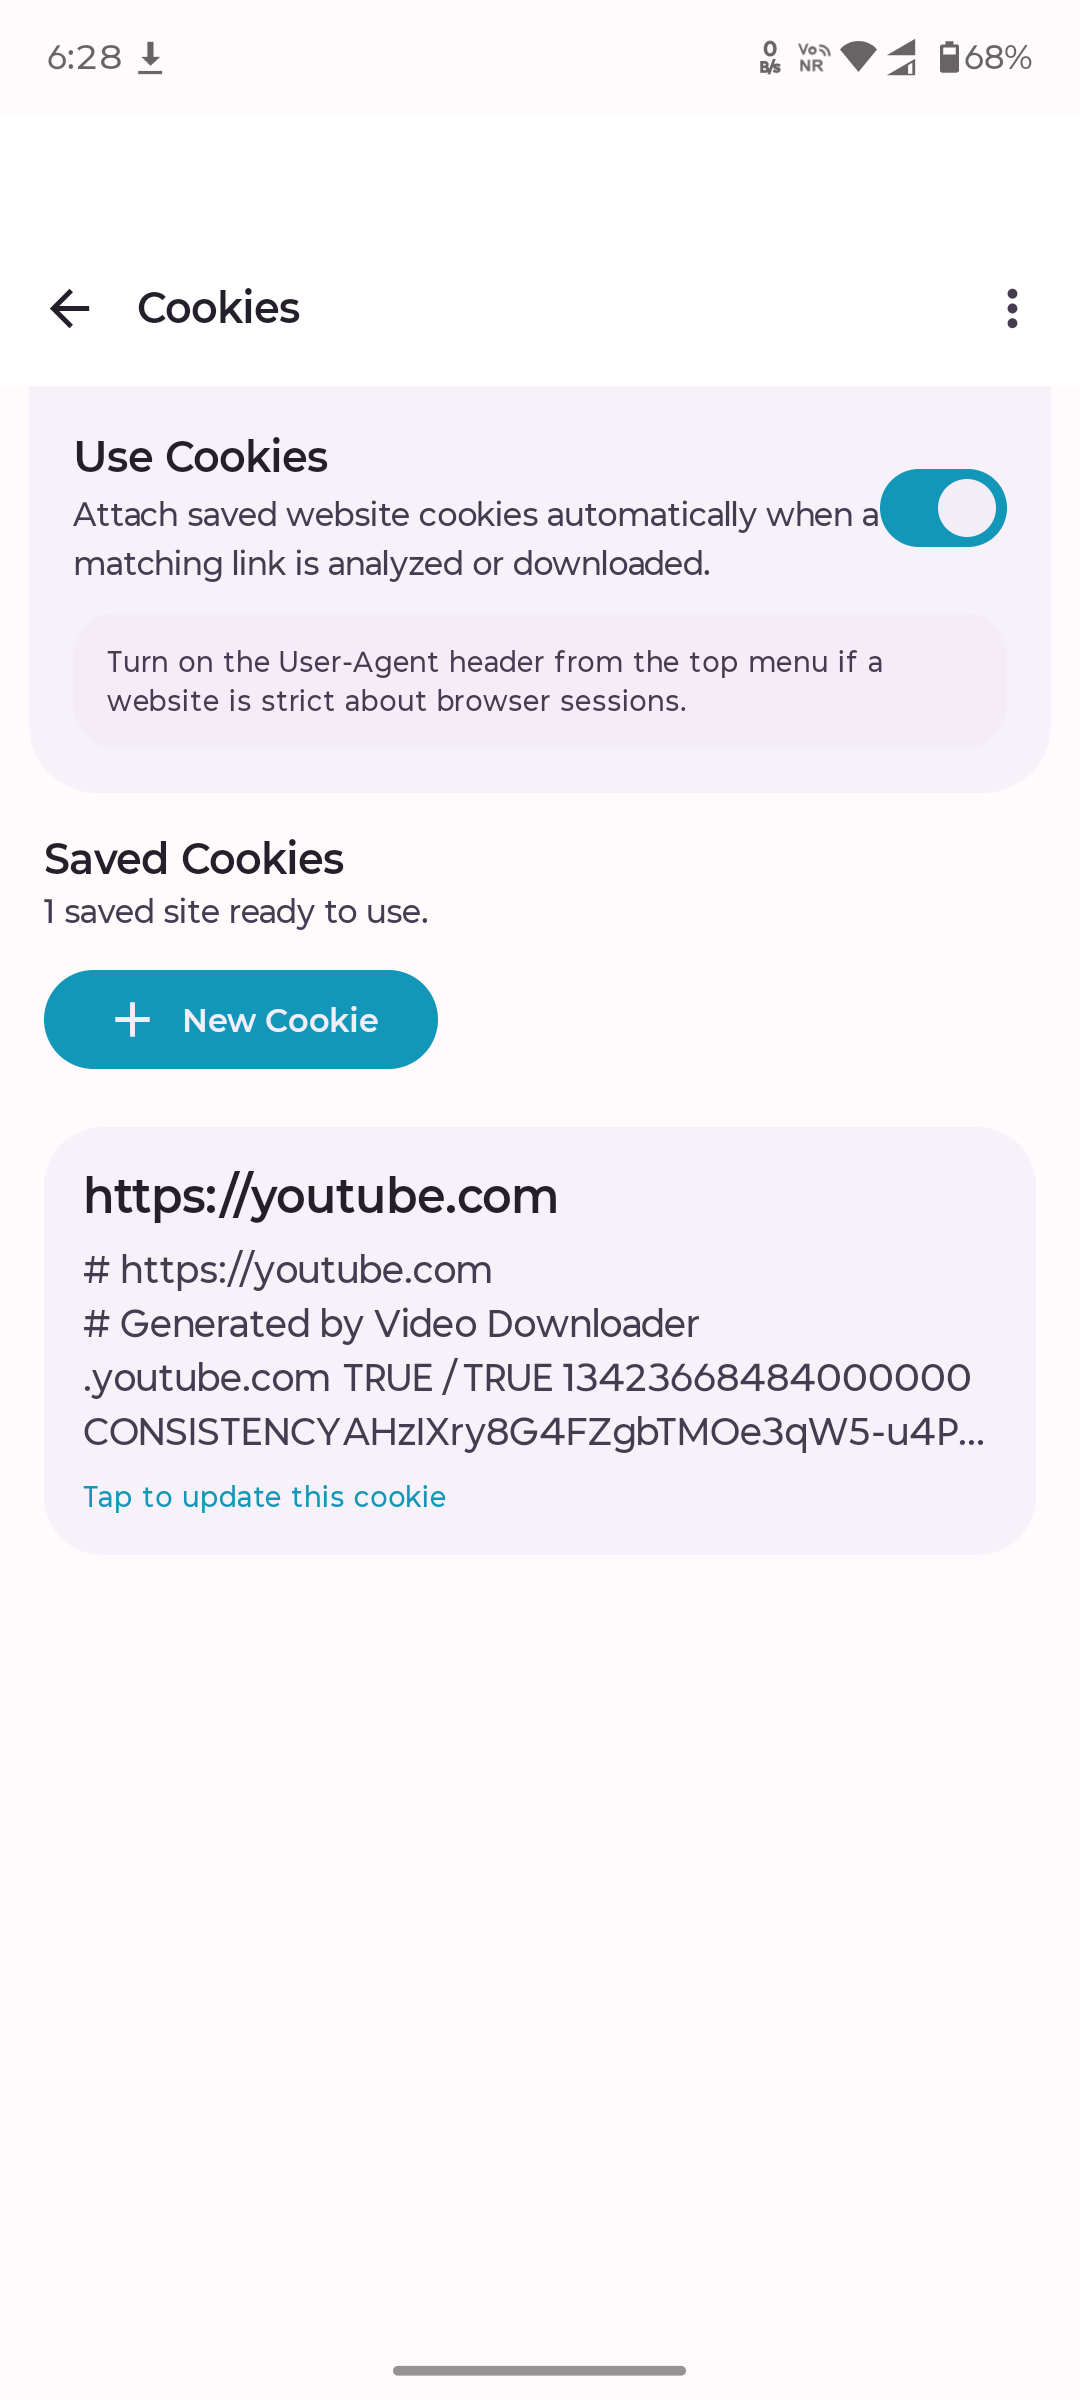
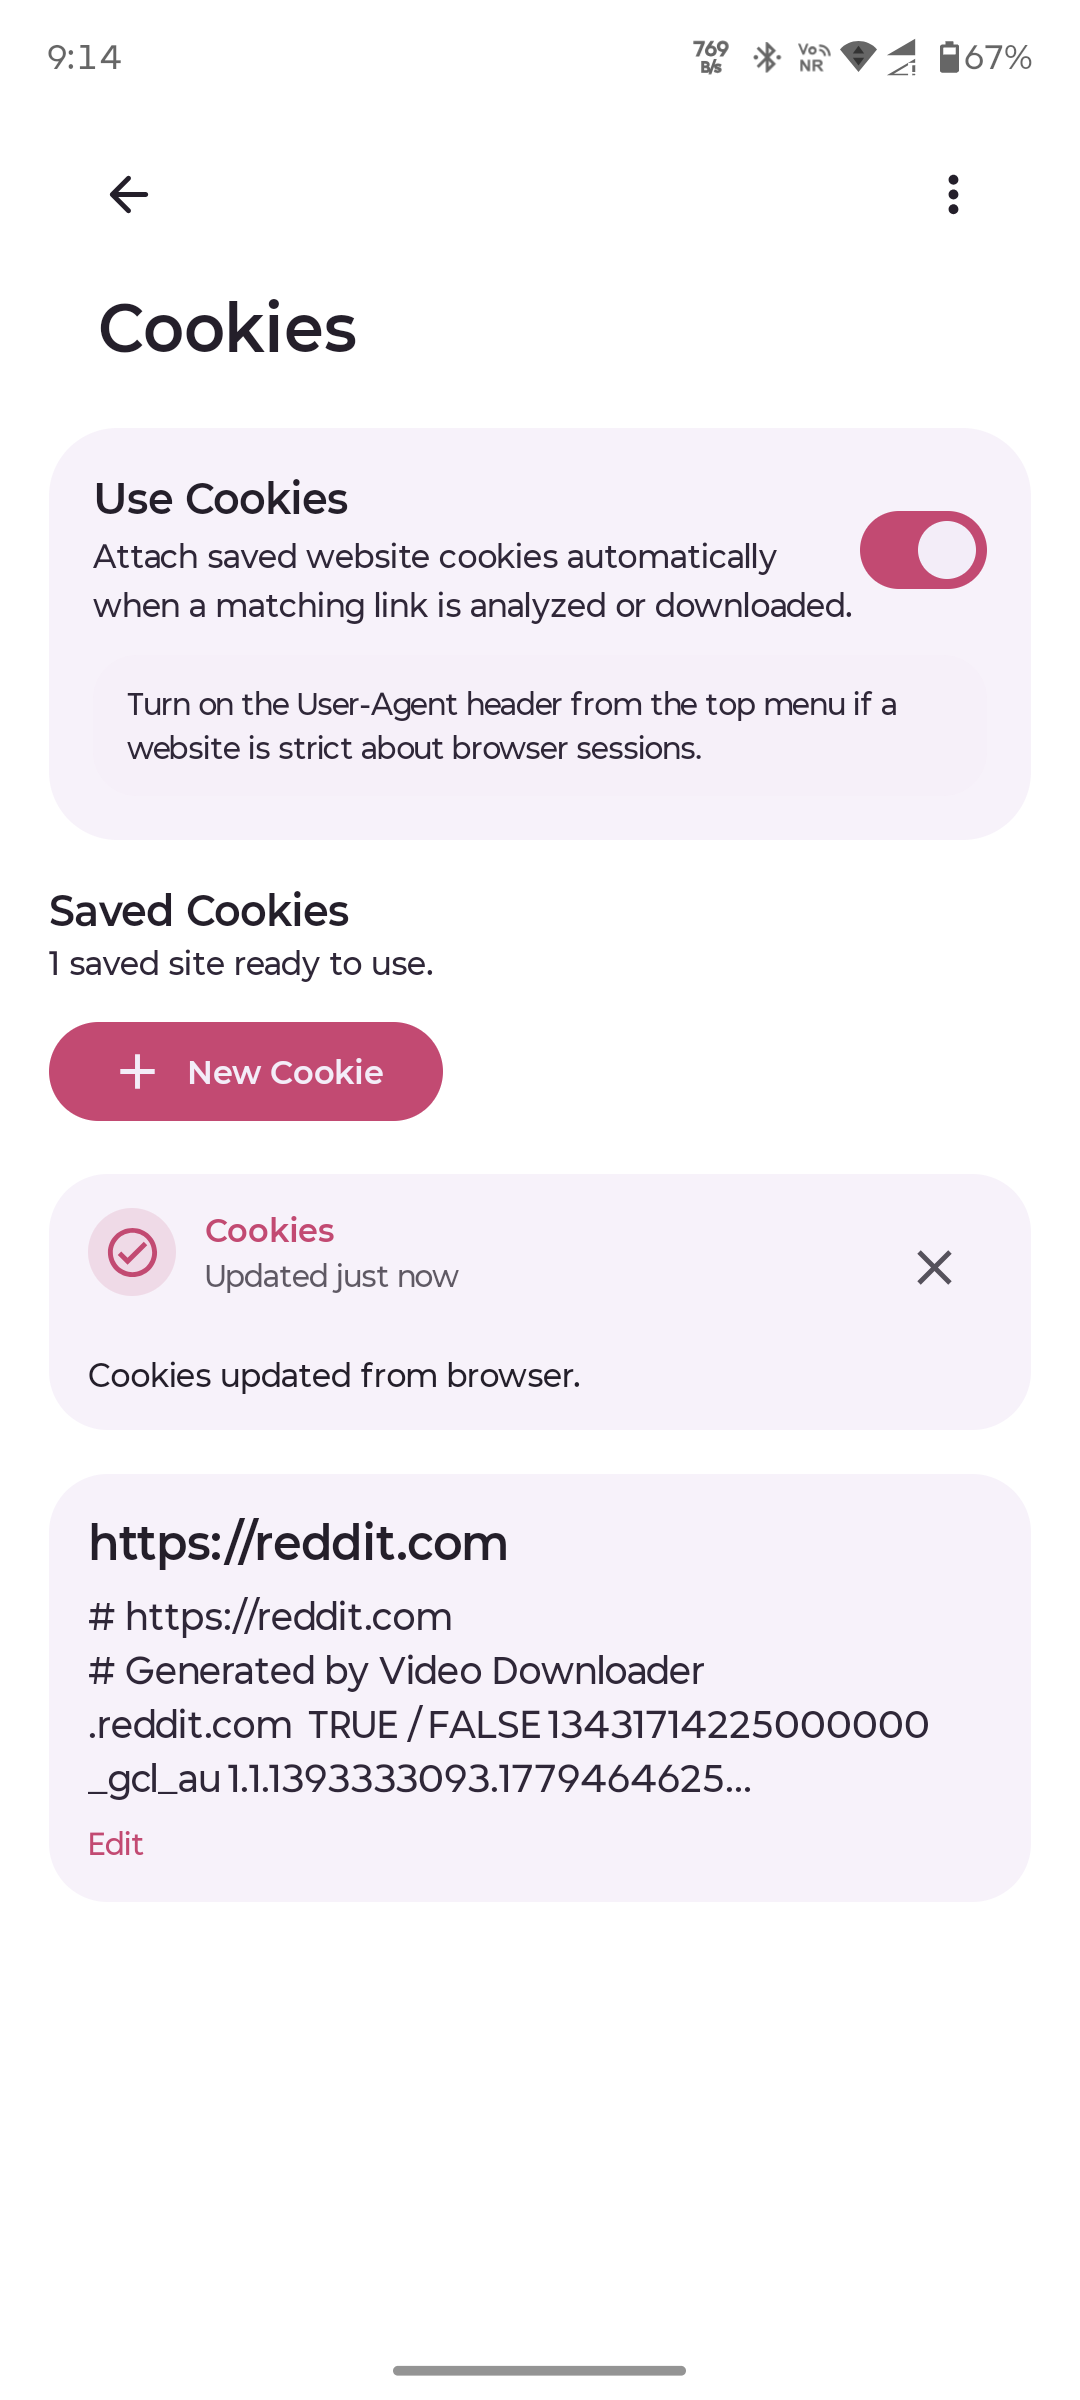
Bump 1.7.2 docs and refresh preview gallery

diff --git a/README.md b/README.md
@@ -16,7 +16,7 @@ Everything runs on-device:
 
 ## Project Status
 
-The current `1.7.1.0-beta` line is the app's stable UI baseline.
+The current `1.7.2` line is the app's stable UI baseline.
 
 That means:
 
@@ -30,16 +30,42 @@ The screenshots below reflect the current app flow, and can be refreshed over
 time as the UI evolves.
 
 <p align="center">
-  <img src="public/demo/home-clean.png" alt="Home screen with URL input" width="220" />
-  <img src="public/demo/home-link-analysing.png" alt="Home screen while analyzing a link" width="220" />
-  <img src="public/demo/download-options-choose-screen.png" alt="Download options overlay" width="220" />
+  <img src="public/demo/home-page.png" alt="Home screen with URL input" width="220" />
+  <img src="public/demo/home-link-analyzing.png" alt="Home screen while analyzing a link" width="220" />
+  <img src="public/demo/single-file-download-option-view.png" alt="Single file download options overlay" width="220" />
 </p>
 
 <p align="center">
-  <img src="public/demo/Queue.png" alt="Queue screen" width="200" />
-  <img src="public/demo/download-running.png" alt="Running download state" width="200" />
-  <img src="public/demo/download-page.png" alt="Downloads library" width="220" />
-  <img src="public/demo/history-page.png" alt="History screen" width="220" />
+  <img src="public/demo/playlist-download.png" alt="Playlist download selection" width="200" />
+  <img src="public/demo/playlist-download-time-any-randowm-file-formate-and-name-editing.png" alt="Playlist per-file format and rename controls" width="200" />
+  <img src="public/demo/downloading-screen.png" alt="Queue screen while a task is active" width="200" />
+  <img src="public/demo/downloading-tab.png" alt="Download queue tab" width="200" />
+</p>
+
+<p align="center">
+  <img src="public/demo/download-tab.png" alt="Downloads library" width="200" />
+  <img src="public/demo/downloaded-file-viewer-tab.png" alt="Saved file viewer tab" width="200" />
+  <img src="public/demo/downloaded-audio-inapp-player.png" alt="In-app audio player" width="200" />
+  <img src="public/demo/in-app-video-player.png" alt="In-app video player" width="200" />
+</p>
+
+<p align="center">
+  <img src="public/demo/more-page.png" alt="More page" width="200" />
+  <img src="public/demo/settings-page.png" alt="Settings page" width="200" />
+  <img src="public/demo/appearence-page.png" alt="Appearance page" width="200" />
+  <img src="public/demo/about-page-credit-section.png" alt="About page with credits section" width="200" />
+</p>
+
+<p align="center">
+  <img src="public/demo/cookies-page.png" alt="Cookies page" width="200" />
+  <img src="public/demo/youtube-po-generation-page.png" alt="YouTube access and PO generation page" width="200" />
+  <img src="public/demo/converter.png" alt="Converter tool page" width="200" />
+  <img src="public/demo/compressor.png" alt="Compressor tool page" width="200" />
+</p>
+
+<p align="center">
+  <img src="public/demo/appearence-page-in-bengali.png" alt="Appearance page in Bengali" width="200" />
+  <img src="public/demo/notification-page-in-bengali.png" alt="Notification settings in Bengali" width="200" />
 </p>
 
 ## Key Features

diff --git a/CHANGELOG.md b/CHANGELOG.md
@@ -5,7 +5,7 @@
 ### Changed
 - **Repository standards refresh** - added the missing license and contributor-community standards files, and refreshed the documentation set to match the current stable-beta product posture instead of the older rapid-iteration roadmap framing
 
-## [1.7.1.0-beta] - 2026-05-21
+## [1.7.2] - 2026-05-22
 
 ### Added
 - **Seal-style settings architecture** - replaced the one-page settings wall with a dedicated settings hub plus focused pages for Appearance, Download defaults, Folders and storage, Notifications, Access and network, and About and support
@@ -56,7 +56,7 @@
 
 ### Technical
 - **Navigation split for settings** - added dedicated settings subroutes inside `DownloaderApp` to support the new hub-and-subpage structure without touching download, queue, or media-processing logic
-- **App version bump** - release metadata updated to `1.7.1.0-beta`
+- **App version bump** - release metadata updated to `1.7.2`
 
 ## [1.7.1] - 2026-05-20
 

diff --git a/future-plan.md b/future-plan.md
@@ -1,6 +1,6 @@
 # Future Plan: Maintenance Roadmap
 
-This document reflects the project's current direction after the `1.7.1.0-beta`
+This document reflects the project's current direction after the `1.7.2`
 stabilization work.
 
 The app is no longer in a broad "figure out the product shape" phase. The main

diff --git a/PROJECT_AUDIT.md b/PROJECT_AUDIT.md
@@ -3,7 +3,7 @@
 ## Audit Scope
 
 - audit date: 2026-05-22
-- current app version in `gradle.properties`: `1.7.1.0-beta`
+- current app version in `gradle.properties`: `1.7.2`
 - focus: current stable-beta repo posture, runtime maintenance surface,
   documentation maturity, and remaining engineering risk
 

diff --git a/IMPLEMENTATION.md b/IMPLEMENTATION.md
@@ -2,7 +2,7 @@
 
 ## Version Scope
 
-- current stable UI baseline: `1.7.1.0-beta`
+- current stable UI baseline: `1.7.2`
 - current engineering emphasis: reliability, runtime maintenance, translation
   quality, and internal logic hardening
 
